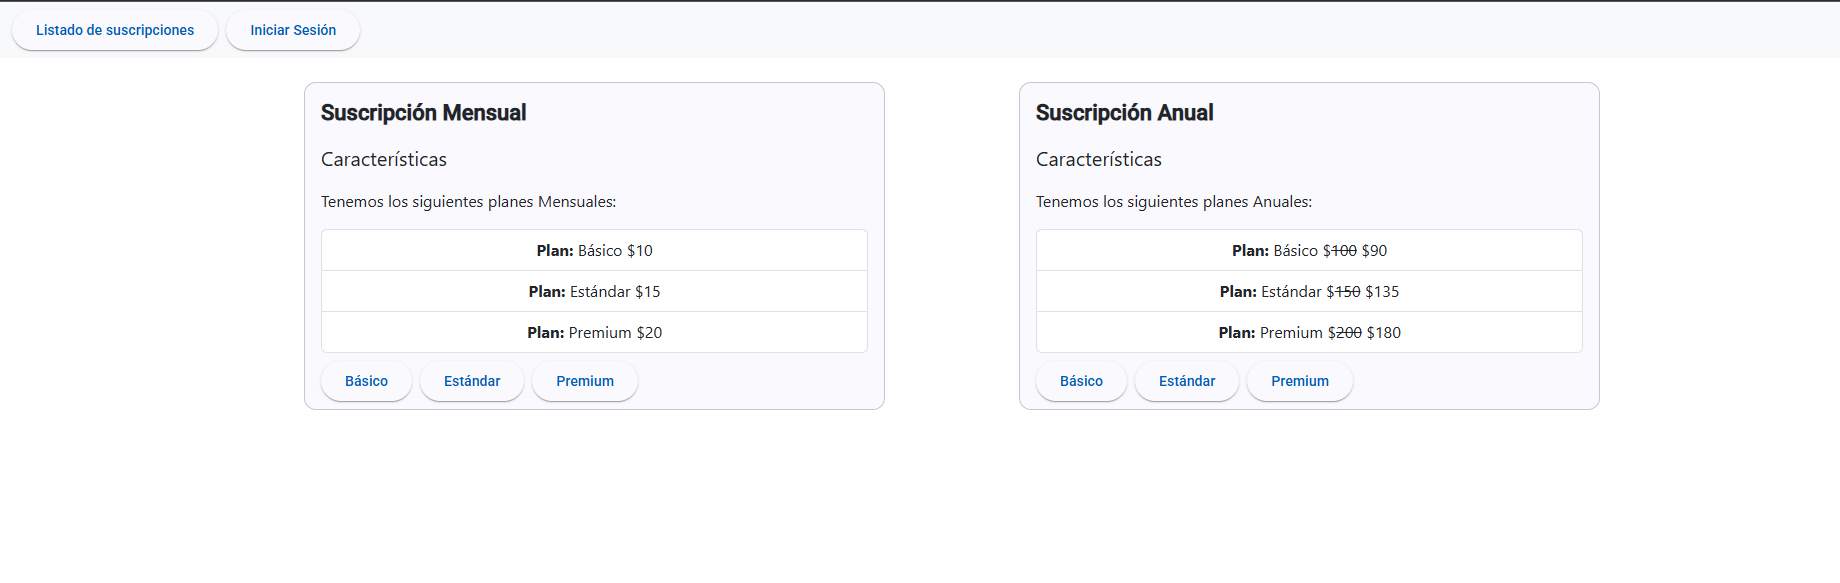
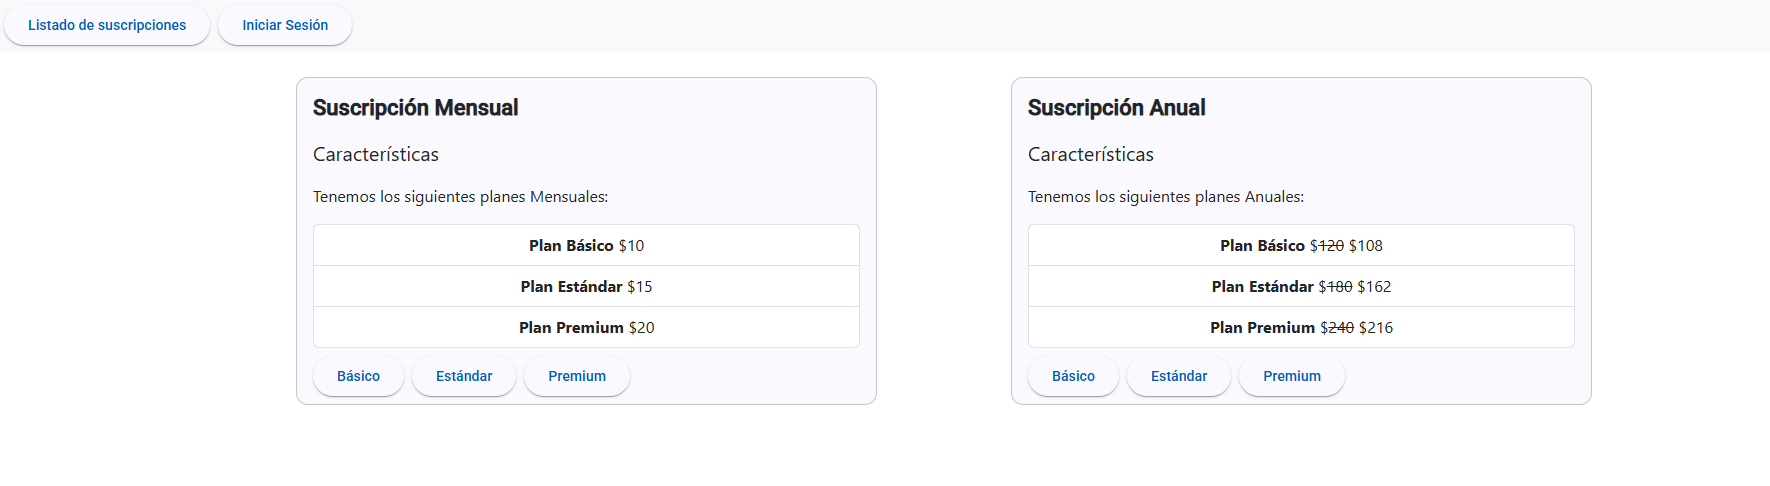
fix(update): fix update subscription

diff --git a/src/app/subscription/views/view-subscription/view-subscription.component.html b/src/app/subscription/views/view-subscription/view-subscription.component.html
@@ -11,21 +11,25 @@
             Felicitaciones su plan es: {{subscription?.plan?.label}}
             <br/>
             @if(subscription?.period === 1) {
-              Su Precio Mensual: {{subscription?.plan?.monthlyPrice?.value}}
+              Su Precio Mensual: ${{subscription?.plan?.monthlyPrice?.value}}
             } @else {
-              Su Precio Anual: {{subscription?.price?.value}}
+              Su Precio Anual: ${{subscription?.price?.value}}
             }
             <br/>
             Fecha de inicio: {{subscription?.startDate | date:"EEEE, d MMM y"}}
             <br/>
             Fecha de fin: {{subscription?.endDate | date:"EEEE, d MMM y"}}
+            @if(existRefund){
+              <br>
+              Tiene un reembolso de: ${{subscription?.refund?.value}}
+            }
           </p>
           @if(subscription?.nextSubscription){
             <div class="alert alert-info text-start" role="alert">
               En la próxima fecha {{subscription?.nextSubscription?.startDate | date:"EEEE, d MMM y"}} se inicia el nuevo plan <br>
               Plan: {{subscription?.nextSubscription?.plan?.label}} <br>
               Precio: {{subscription?.nextSubscription?.price?.value}} <br>
-              Tiene un reembolso de: {{subscription?.nextSubscription?.refund?.value}}
+              Tiene un reembolso de: ${{subscription?.nextSubscription?.refund?.value}}
             </div>
           }
         </mat-card-content>

diff --git a/src/app/subscription/views/update-subscription/update-subscription.component.ts b/src/app/subscription/views/update-subscription/update-subscription.component.ts
@@ -37,7 +37,6 @@ export class UpdateSubscriptionComponent implements OnInit {
   public form = this.fb.group({
       email: ['', [Validators.required, Validators.email]],
       type: ['', [Validators.required]],
-      period: ['', [Validators.required]],
   });
 
   ngOnInit(): void {
@@ -51,14 +50,13 @@ export class UpdateSubscriptionComponent implements OnInit {
   onSubmit() {
     if (this.form.valid) {
       const type = this.form.value.type ?? '';
-      const period = this.form.value.period ?? 1;
       const plan = this.plans.findAllPlans().find(plan => plan.name === type) ??
       new Plan('1', 'basico', 'Básico', { value: 10 }, { value: 100 });
       if(this.currentSubscription){
-        if(this.currentSubscription.plan.name !== plan.name || this.currentSubscription.period !== +period){
-          this.currentSubscription.update(plan, +period, new Date());
+        if(this.currentSubscription.plan.name !== plan.name){
+          this.currentSubscription.update(plan, new Date());
           this.updateUseCase.update(this.currentSubscription);
-          //this.userLoggedIn.setSubscription(subscription);
+          this.userLoggedIn.setSubscription(this.currentSubscription);
           this.router.navigate(['/subscription/view-subscription']);
         }else {
           this.sameData.set(true);

diff --git a/src/app/subscription/domain/entity/subscription.ts b/src/app/subscription/domain/entity/subscription.ts
@@ -70,19 +70,20 @@ export class Subscription {
     return diffMiliseconds;
   }
 
-  update(plan: Plan, period: Period, startDate: Date){
-    if(this.period === Period.Anual){
-      const totalRefund = this.price.value - this.price.value;
-      this.refund = new Price(this.refund.value + totalRefund);
+  private calculateRefund(nextPrice: Price){
+    const totalRefund = this.price.value - nextPrice.value;
+    return new Price(this.refund.value + (totalRefund < 0 ? 0 : totalRefund));
+  }
+
+  update(plan: Plan, startDate: Date){
+    const nextPrice = plan.calculatePrice(this.period);
+    if(this.period === Period.Monthly && this.compareDates(this.endDate, startDate)){
+      const refund = this.calculateRefund(nextPrice);
+      this.nextSubscription = { ...this, startDate: this.endDate, price: nextPrice, isActive: false, refund }
     } else {
-      if(this.compareDates(this.endDate, startDate)){
-        this.nextSubscription = new Subscription(plan, this.user, period, this.endDate);
-        this.nextSubscription.isActive = false;
-      } else {
-        this.plan = plan;
-        this.price = plan.calculatePrice(period);
-        this.period = period;
-      }
+      this.refund = this.calculateRefund(nextPrice);
+      this.plan = plan;
+      this.price = nextPrice;
     }
   }
 

diff --git a/src/app/subscription/views/update-subscription/update-subscription.component.html b/src/app/subscription/views/update-subscription/update-subscription.component.html
@@ -11,7 +11,7 @@
         <mat-card-content>
           @if(sameData()){
             <div class="alert alert-danger" role="alert">
-              El plan y el periodo son los mismos que tiene actualmente
+              El plan es los mismo que tiene actualmente
             </div>
           }
           @if(alreadyExistUpdate){
@@ -27,14 +27,6 @@
               <mat-label>Enter your email</mat-label>
               <input matInput type="email" formControlName="email" />
             </mat-form-field>
-              <br/>
-              <mat-form-field>
-                <mat-label>Periodo</mat-label>
-                <select formControlName="period" matNativeControl required>
-                  <option value="1">Mensual</option>
-                  <option value="12">Anual</option>
-                </select>
-              </mat-form-field>
               <br>
               <mat-form-field>
                 <mat-label>Tipo de membresia</mat-label>

diff --git a/src/app/subscription/views/plans/plans.component.html b/src/app/subscription/views/plans/plans.component.html
@@ -14,7 +14,7 @@
           </p>
           <ul class="list-group">
             @for (plan of plansList; track plan.id) {
-              <li class="list-group-item"><b>Plan: </b> {{plan.label}} ${{plan.monthlyPrice.value}}</li>
+              <li class="list-group-item"><b>Plan {{plan.label}} </b> ${{plan.monthlyPrice.value}}</li>
             }
           </ul>
         </mat-card-content>
@@ -41,7 +41,7 @@
           </p>
           <ul class="list-group">
             @for (plan of plansList; track plan.id) {
-              <li class="list-group-item"><b>Plan: </b> {{plan.label}} $<s>{{plan.anualPrice.value}}</s> ${{plan.calculatePrice(12).value}}</li>
+              <li class="list-group-item"><b>Plan {{plan.label}}</b> $<s>{{plan.anualPrice.value}}</s> ${{plan.calculatePrice(12).value}}</li>
             }
           </ul>
         </mat-card-content>

diff --git a/src/app/subscription/views/subscription/subscription.component.html b/src/app/subscription/views/subscription/subscription.component.html
@@ -9,16 +9,16 @@
         </mat-card-header>
         <form [formGroup]="form" (ngSubmit)="onSubmit()">
         <mat-card-content>
-          <mat-form-field>
-            <mat-label>Enter your Name</mat-label>
-            <input matInput type="text" formControlName="name" />
-          </mat-form-field>
-          <br>
           @if(emailExist()){
             <div class="alert alert-danger" role="alert">
               Este email ya tiene una suscripción
             </div>
           }
+          <mat-form-field>
+            <mat-label>Enter your Name</mat-label>
+            <input matInput type="text" formControlName="name" />
+          </mat-form-field>
+          <br>
           <mat-form-field>
             <mat-label>Enter your email</mat-label>
             <input matInput type="email" formControlName="email" />

diff --git a/src/app/subscription/infrastructure/repository/plans-repository.service.ts b/src/app/subscription/infrastructure/repository/plans-repository.service.ts
@@ -7,9 +7,9 @@ import { PlanRepository } from '@subscription/domain/repository/planRepository';
 })
 export class PlansRepositoryService implements PlanRepository {
   private plans = [
-    new Plan('1', 'basico', 'Básico', { value: 10 }, { value: 100 }),
-    new Plan('2', 'estandar', 'Estándar', { value: 15 }, { value: 150 }),
-    new Plan('3', 'premium', 'Premium', { value: 20 }, { value: 200 }),
+    new Plan('1', 'basico', 'Básico', { value: 10 }, { value: 120 }),
+    new Plan('2', 'estandar', 'Estándar', { value: 15 }, { value: 180 }),
+    new Plan('3', 'premium', 'Premium', { value: 20 }, { value: 240 }),
   ];
 
   constructor() { }

diff --git a/src/app/subscription/views/view-subscription/view-subscription.component.ts b/src/app/subscription/views/view-subscription/view-subscription.component.ts
@@ -22,10 +22,13 @@ export class ViewSubscriptionComponent implements OnInit {
   private router = inject(Router);
 
   public subscription: Subscription | undefined = this.userLoggedIn.getSubscription();
+  public existRefund = false;
 
   ngOnInit(): void {
     if(!this.subscription) {
       this.router.navigate(['/']);
+    } else {
+      this.existRefund = this.subscription.refund.value > 0;
     }
   }
 

diff --git a/README.md b/README.md
@@ -33,7 +33,7 @@ Se ha diseñado un inicio de sesión para darle un toque mas realista
 Se hace el calculo del 10% cuando se elige un plan anual (dentro de subscription.ts)
 
 **Actualización de plan**
-Cuando se hace un cambio de plan dependiendo la fecha se pone para el siguiente período; este objeto es nextSubscription dentro de suscription y se hace un calculo para verificar si hay o no reembolso dependiendo del plan.
+Cuando se hace un cambio de plan dependiendo la fecha se pone para el siguiente período; este objeto es nextSubscription dentro de suscription y se hace un calculo para verificar si hay o no reembolso dependiendo del plan. Solo se puede actualizar el plan para mayor facilidad.
 
 **Cancelación**
 Cuando se cancela un plan se hace un calculo considerando la fecha actual y la fecha final del plan, se mira el valor por día y la diferencia de días si existe se da como reembolso; esto es tanto para mensuales como para anuales.
@@ -44,6 +44,22 @@ No se puede crear una nueva suscripción si ya tiene una activa para el mismo us
 Como es una aplicación pequeña se usaron las nuevas señales que son poderosas y funcionan como obervables, de esa manera podemos cambiar la estrategia de cambio para evitar el onzone de angular y usar el push.
 
 Para desacoplar la capa de application con la de infrastructure y no inyectar la dependencia de la implementación del repositorio en los casos de uso se optó por crear una carpeta config a la par de las arquitectónicas donde se creo un token inyectable que a su vez se inicia en el componente standalone principal de la aplicación y así se puede inyectar la implementación para la abstracción del repositorio del dominio.
+
+Se han creado planes harcoded en el repositorio de planes, donde los precios en mensual son:
+
+* Plan Básico $10
+* Plan Estándar $15
+* Plan Premium $20
+
+Y para anual serían:
+
+* Plan Básico $120
+* Plan Estándar $180
+* Plan Premium $240
+
+A estos últimos se les aplicaría el descuento del 10%
+
+
 
 Por el tiempo no se han implementado pruebas unitarias
 
